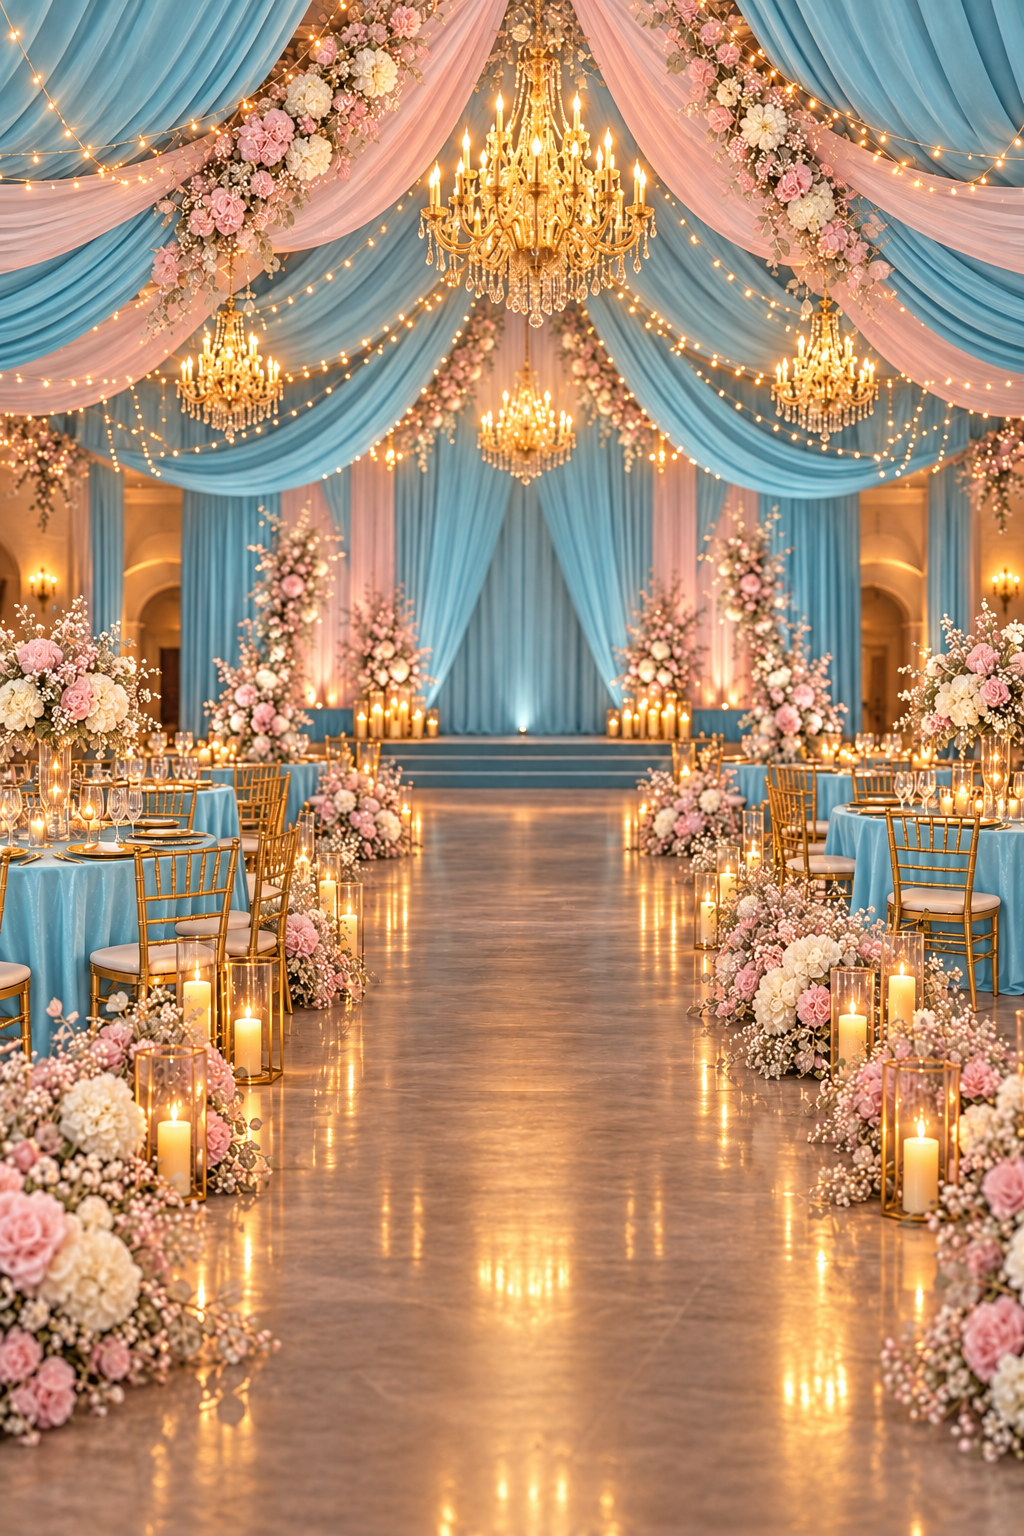
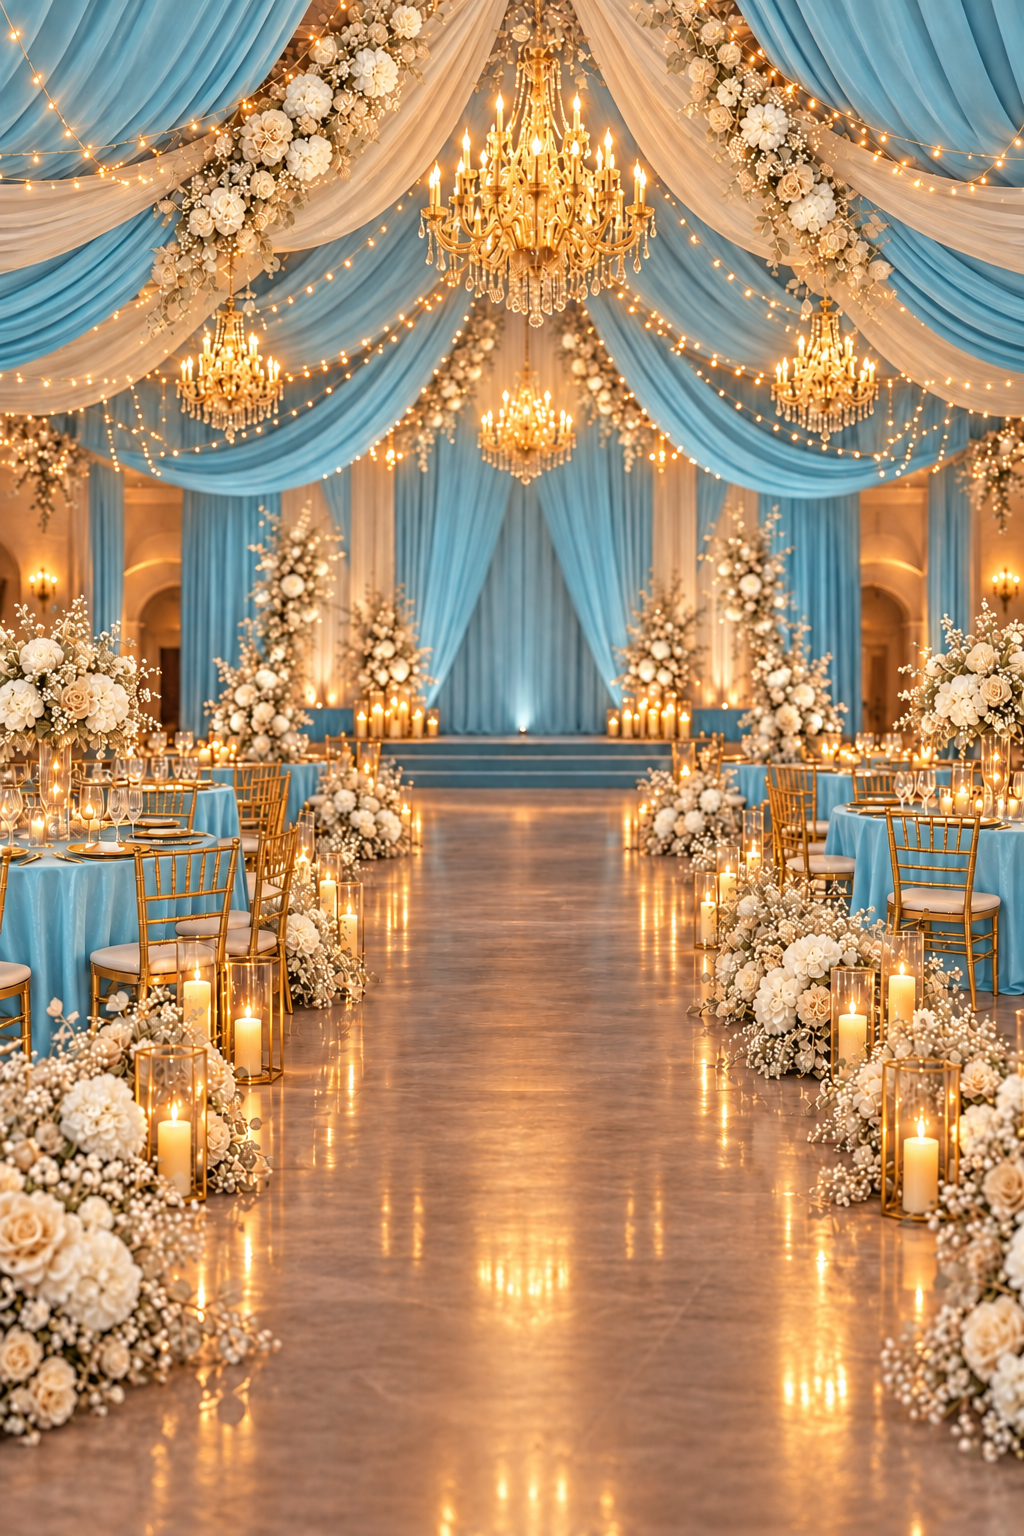
feat: cambia paleta de Krystel a aqua champagne y dorado

diff --git a/components/events/krystel-xv/KrystelInvitation.js b/components/events/krystel-xv/KrystelInvitation.js
@@ -11,9 +11,9 @@ const floral = "/images/events/krystel-xv/floral.png";
 const envelopeClosed = "/images/events/krystel-xv/envelope-closed.png";
 const envelopeOpen = "/images/events/krystel-xv/envelope-open.png";
 const theme = {
-  "--coral": "#dfa9b8", "--peach": "#f3cad7", "--olive": "#78b8ca", "--dark": "#3f7180",
+  "--coral": "#b59045", "--peach": "#d8c3a5", "--olive": "#78b8ca", "--dark": "#3f7180",
   "--gold": "#b59045", "--gold-soft": "#dfc98d", "--paper": "#fffdf9", "--ivory": "#eef8fa",
-  "--charcoal": "#40545a", "--muted": "#71878d", "--accent-light": "#f6dce3", "--floral-image": `url('${floral}')`,
+  "--charcoal": "#40545a", "--muted": "#71878d", "--accent-light": "#eadcc5", "--floral-image": `url('${floral}')`,
 };
 
 function getCountdown(date) {
@@ -81,7 +81,7 @@ export function KrystelInvitation({ event }) {
       <section className={styles.location} data-je-reveal><div className={styles.locationImage}><Image src={event.ceremony.image} fill sizes="(max-width:800px) 100vw,55vw" alt="Decoración de la celebración" /></div><article><Church /><span>Misa</span><h2>{event.ceremony.name}</h2><strong>{event.ceremony.time}</strong><p>{event.ceremony.address}</p><a href={event.ceremony.mapsUrl} target="_blank" rel="noreferrer">Ver ubicación <ExternalLink /></a></article></section>
       <section className={`${styles.location} ${styles.locationReverse}`} data-je-reveal><div className={styles.locationImage}><Image src={event.reception.image} fill sizes="(max-width:800px) 100vw,55vw" alt="Jardín para la recepción" /></div><article><Sparkles /><span>Recepción</span><h2>{event.reception.name}</h2><strong>{event.reception.time}</strong><p>{event.reception.address}</p><a href={event.reception.mapsUrl} target="_blank" rel="noreferrer">Cómo llegar <MapPin /></a></article></section>
       <section className={`${styles.timeline} ${localStyles.timeline}`} data-je-reveal><span>27 de diciembre</span><h2>Una noche inolvidable</h2><div><article><time>5:00</time><small>p. m.</small><i /><h3>Ceremonia</h3><p>Santa María Magdalena</p></article><article><time>6:30</time><small>p. m.</small><i /><h3>Cena</h3><p>Hasta las 8:30 p. m.</p></article><article><time>9:00</time><small>p. m.</small><i /><h3>Baile</h3><p>Hasta las 2:00 a. m.</p></article></div></section>
-      <section className={styles.dress} data-je-reveal><span>Colores reservados</span><h2>Aqua, rosa pastel y dorado</h2><p>Estos colores están reservados para la quinceañera y los detalles especiales de su celebración. Gracias por elegir otros tonos para tu vestimenta.</p></section>
+      <section className={styles.dress} data-je-reveal><span>Colores reservados</span><h2>Aqua, champagne y dorado</h2><p>Estos colores están reservados para la quinceañera y los detalles especiales de su celebración. Gracias por elegir otros tonos para tu vestimenta.</p></section>
       <section className={styles.gifts} data-je-reveal><Gift /><span>Un detalle especial</span><h2>Tu presencia es mi mejor regalo</h2><p>Si además deseas tener un detalle conmigo, puedes obsequiar un regalo o un sobre. Lo recibiré con mucho cariño, sin que sea una obligación.</p></section>
       <section className={styles.calendar} data-je-reveal><CalendarDays /><span>Reserva la fecha</span><h2>27 de diciembre de 2026</h2><button onClick={addCalendar}>Agregar a mi calendario</button></section>
       <section className={styles.rsvp} data-je-reveal><div className={styles.rsvpIntro}><span>R S V P</span><h2>¿Me acompañas?</h2><p>Por favor confirma tu asistencia antes del 20 de diciembre.</p><a href={event.contact.whatsapp} target="_blank" rel="noreferrer">Dudas por WhatsApp: {event.contact.phone}</a><div>K</div></div>{success ? <div className={styles.success}><Check /><h3>¡Gracias, {success}!</h3><p>Recibí tu respuesta. Me dará mucha alegría compartir esta noche contigo.</p><button onClick={() => setSuccess("")}>Editar respuesta</button></div> : <form onSubmit={submit}><label>Nombre completo<input name="name" required placeholder="Escribe tu nombre" /></label><fieldset><legend>¿Asistirás?</legend><label><input type="radio" name="attendance" value="yes" required /> Sí, ahí estaré</label><label><input type="radio" name="attendance" value="no" required /> No podré asistir</label></fieldset><label>Número de acompañantes adultos<input name="companions" type="number" min="0" max={event.maxCompanions} defaultValue="0" /></label><label>Comentarios o consideraciones<textarea name="notes" rows="3" placeholder="Alergias o algo que debamos saber" /></label><label>Mensaje para Krystel<textarea name="message" rows="4" placeholder="Déjame unas palabras…" /></label><label className={styles.honeypot}>Sitio web<input name="website" tabIndex="-1" autoComplete="off" /></label>{error && <p className={styles.formError}>{error}</p>}<button disabled={saving}>{saving ? "Enviando…" : "Confirmar asistencia"}</button></form>}</section>

diff --git a/config/events/krystel-xv.js b/config/events/krystel-xv.js
@@ -1,6 +1,6 @@
 export const krystelXv = {
   slug: "xv-krystel",
-  templateKey: "krystel-xv-aqua-pink-gold",
+  templateKey: "krystel-xv-aqua-champagne-gold",
   eventTitle: "XV años de Krystel",
   couple: { partner1: "Krystel", partner2: "Mis XV" },
   date: "2026-12-27T17:00:00-06:00",
@@ -35,10 +35,10 @@ export const krystelXv = {
     { time: "21:00", title: "Baile", description: "Auditorio Municipal", icon: "music" },
   ],
   family: { parents: ["Luis Carlos Hernández P.", "Élida Bustillos S."], godparents: [] },
-  dressCode: { title: "Aqua, rosa pastel y dorado reservados", text: "Agradecemos elegir otros tonos para tu vestimenta." },
+  dressCode: { title: "Aqua, champagne y dorado reservados", text: "Agradecemos elegir otros tonos para tu vestimenta." },
   gifts: [{ name: "Regalo o sobre", description: "Tu presencia es mi mejor regalo. Si deseas tener un detalle conmigo, puedes elegir un regalo o un sobre.", url: "", type: "cash" }],
   gallery: [],
   contact: { phone: "6491180778", whatsapp: "https://wa.me/526491180778" },
   music: { enabled: true, url: "/audio/margarita-mateo-perfect-espanol.mp3", label: "Perfect · Ed Sheeran" },
-  theme: { primary: "#78b8ca", dark: "#3f7180", champagne: "#b59045", cream: "#eef8fa", ivory: "#fffdf9", rose: "#f3cad7", sage: "#9ed1dd" },
+  theme: { primary: "#78b8ca", dark: "#3f7180", champagne: "#d8c3a5", cream: "#eef8fa", ivory: "#fffdf9", rose: "#eadcc5", sage: "#9ed1dd" },
 };

diff --git a/app/eventos/page.js b/app/eventos/page.js
@@ -18,7 +18,7 @@ export default function EventsPage() {
       <Link href="/eventos/xv-krystel" className={styles.card}>
         <Image src="/images/events/krystel-xv/hero.png" fill sizes="(max-width: 800px) 100vw, 50vw" alt="Invitación de XV años de Krystel" />
         <div className={styles.overlay} />
-        <div className={styles.copy}><small>Invitación personalizada</small><h2>Krystel · XV</h2><p>Aqua · Rosa pastel · Dorado</p><strong>Ver invitación <span>→</span></strong></div>
+        <div className={styles.copy}><small>Invitación personalizada</small><h2>Krystel · XV</h2><p>Aqua · Champagne · Dorado</p><strong>Ver invitación <span>→</span></strong></div>
       </Link>
       <Link href="/eventos/margarita-y-mateo" className={styles.card}>
         <Image src="/images/events/margarita-mateo/foto-1.webp" fill sizes="(max-width: 800px) 100vw, 50vw" alt="Invitación de boda de Margarita y Mateo" />
